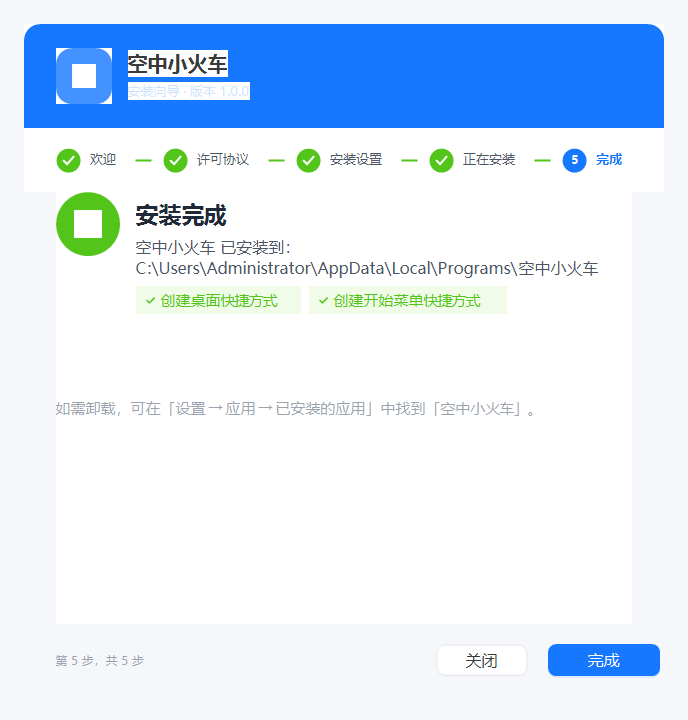
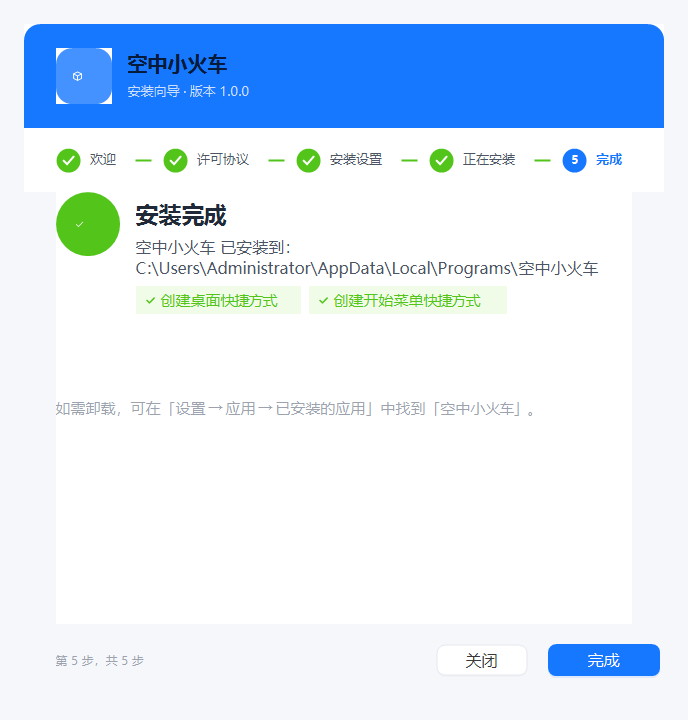
修圆角后遗症：面板里的 Label 失去背景 + 提示条被压成 3px
上一轮把 AntdUI.Panel 的 BackColor 删掉修好了圆角，但引出两个问题。

一、面板里的 Label 各画一块白底
   现象：品牌头的产品名和副标题后面各有一个白色方块，图标块也变成白色方块。
   原因：面板没有 BackColor 后，里面的 Label 失去可继承的背景，
        各自画了自己的 BackColor（白）。
   修法：WizardForm 构造时递归把树里所有 AntdUI.Label 的 BackColor 设为 Transparent。
        两个需求（面板要圆角 / 子控件要透明）这样就都满足了。

二、黄色提示条被压成 3px，文字看不见
   现象：提示条只剩一条黄线。
   原因：WelcomeView 的提示条行高 50，减去上间距 20 只剩 30，
        再减去 padding 上下各 10 只剩 10px —— 装不下 9F 的文字。
   修法：行高按设计稿改成 62（提示条本体 42 + 上间距 20），
        padding 改 (16,12,16,12)。

同时按设计稿把欢迎页的字号全改对
  页面标题 17F → 13.5F（18px）
  正文     12F → 9.75F（13px）
  信息卡标签 11F → 9F（12px）
  信息卡值   13F → 9.75F（13px）
  提示条     11F → 9F（12px）

实测一致度（欢迎页 87.5% → 88.3%）

验收：构建 0 警告、单元测试 182/182

Changed region(s): [[0.1831, 0.0611, 0.3663, 0.1528], [0.0916, 0.275, 0.1526, 0.3361], [0.0916, 0.0917, 0.1526, 0.1222]]

diff --git a/src/Installer.UI/Views/WelcomeView.Designer.cs b/src/Installer.UI/Views/WelcomeView.Designer.cs
@@ -71,7 +71,7 @@ namespace Installer.UI.Views
             this.rootLayout.RowStyles.Add(new System.Windows.Forms.RowStyle(System.Windows.Forms.SizeType.Absolute, 34F));
             this.rootLayout.RowStyles.Add(new System.Windows.Forms.RowStyle(System.Windows.Forms.SizeType.Absolute, 86F));
             this.rootLayout.RowStyles.Add(new System.Windows.Forms.RowStyle(System.Windows.Forms.SizeType.Absolute, 186F));
-            this.rootLayout.RowStyles.Add(new System.Windows.Forms.RowStyle(System.Windows.Forms.SizeType.Absolute, 50F));
+            this.rootLayout.RowStyles.Add(new System.Windows.Forms.RowStyle(System.Windows.Forms.SizeType.Absolute, 62F));
             this.rootLayout.RowStyles.Add(new System.Windows.Forms.RowStyle(System.Windows.Forms.SizeType.Percent, 100F));
             this.rootLayout.Size = new System.Drawing.Size(600, 400);
             this.rootLayout.TabIndex = 0;
@@ -80,7 +80,7 @@ namespace Installer.UI.Views
             //
             this.lblTitle.Anchor = System.Windows.Forms.AnchorStyles.Left;
             this.lblTitle.AutoSize = true;
-            this.lblTitle.Font = new System.Drawing.Font("微软雅黑", 17F, System.Drawing.FontStyle.Bold);
+            this.lblTitle.Font = new System.Drawing.Font("微软雅黑", 13.5F, System.Drawing.FontStyle.Bold);
             this.lblTitle.Location = new System.Drawing.Point(0, 0);
             this.lblTitle.Margin = new System.Windows.Forms.Padding(0);
             this.lblTitle.Name = "lblTitle";
@@ -91,7 +91,7 @@ namespace Installer.UI.Views
             // lblBody
             //
             this.lblBody.AutoSize = false;
-            this.lblBody.Font = new System.Drawing.Font("微软雅黑", 12F);
+            this.lblBody.Font = new System.Drawing.Font("微软雅黑", 9.75F);
             this.lblBody.Location = new System.Drawing.Point(0, 40);
             this.lblBody.Margin = new System.Windows.Forms.Padding(0, 8, 0, 0);
             this.lblBody.Name = "lblBody";
@@ -167,7 +167,7 @@ namespace Installer.UI.Views
             //
             this.lblDirCaption.Anchor = System.Windows.Forms.AnchorStyles.Left;
             this.lblDirCaption.AutoSize = true;
-            this.lblDirCaption.Font = new System.Drawing.Font("微软雅黑", 11F);
+            this.lblDirCaption.Font = new System.Drawing.Font("微软雅黑", 9F);
             this.lblDirCaption.ForeColor = System.Drawing.Color.FromArgb(((int)(((byte)(156)))), ((int)(((byte)(163)))), ((int)(((byte)(175)))));
             this.lblDirCaption.Location = new System.Drawing.Point(0, 0);
             this.lblDirCaption.Margin = new System.Windows.Forms.Padding(0);
@@ -180,7 +180,7 @@ namespace Installer.UI.Views
             //
             this.lblDirValue.Anchor = System.Windows.Forms.AnchorStyles.Left;
             this.lblDirValue.AutoSize = true;
-            this.lblDirValue.Font = new System.Drawing.Font("微软雅黑", 13F);
+            this.lblDirValue.Font = new System.Drawing.Font("微软雅黑", 9.75F);
             this.lblDirValue.Location = new System.Drawing.Point(0, 18);
             this.lblDirValue.Margin = new System.Windows.Forms.Padding(0);
             this.lblDirValue.Name = "lblDirValue";
@@ -222,7 +222,7 @@ namespace Installer.UI.Views
             //
             this.lblSpaceCaption.Anchor = System.Windows.Forms.AnchorStyles.Left;
             this.lblSpaceCaption.AutoSize = true;
-            this.lblSpaceCaption.Font = new System.Drawing.Font("微软雅黑", 11F);
+            this.lblSpaceCaption.Font = new System.Drawing.Font("微软雅黑", 9F);
             this.lblSpaceCaption.ForeColor = System.Drawing.Color.FromArgb(((int)(((byte)(156)))), ((int)(((byte)(163)))), ((int)(((byte)(175)))));
             this.lblSpaceCaption.Location = new System.Drawing.Point(0, 0);
             this.lblSpaceCaption.Margin = new System.Windows.Forms.Padding(0);
@@ -235,7 +235,7 @@ namespace Installer.UI.Views
             //
             this.lblSpaceValue.Anchor = System.Windows.Forms.AnchorStyles.Left;
             this.lblSpaceValue.AutoSize = true;
-            this.lblSpaceValue.Font = new System.Drawing.Font("微软雅黑", 13F);
+            this.lblSpaceValue.Font = new System.Drawing.Font("微软雅黑", 9.75F);
             this.lblSpaceValue.Location = new System.Drawing.Point(0, 18);
             this.lblSpaceValue.Margin = new System.Windows.Forms.Padding(0);
             this.lblSpaceValue.Name = "lblSpaceValue";
@@ -277,7 +277,7 @@ namespace Installer.UI.Views
             //
             this.lblVersionCaption.Anchor = System.Windows.Forms.AnchorStyles.Left;
             this.lblVersionCaption.AutoSize = true;
-            this.lblVersionCaption.Font = new System.Drawing.Font("微软雅黑", 11F);
+            this.lblVersionCaption.Font = new System.Drawing.Font("微软雅黑", 9F);
             this.lblVersionCaption.ForeColor = System.Drawing.Color.FromArgb(((int)(((byte)(156)))), ((int)(((byte)(163)))), ((int)(((byte)(175)))));
             this.lblVersionCaption.Location = new System.Drawing.Point(0, 0);
             this.lblVersionCaption.Margin = new System.Windows.Forms.Padding(0);
@@ -290,7 +290,7 @@ namespace Installer.UI.Views
             //
             this.lblVersionValue.Anchor = System.Windows.Forms.AnchorStyles.Left;
             this.lblVersionValue.AutoSize = true;
-            this.lblVersionValue.Font = new System.Drawing.Font("微软雅黑", 13F);
+            this.lblVersionValue.Font = new System.Drawing.Font("微软雅黑", 9.75F);
             this.lblVersionValue.Location = new System.Drawing.Point(0, 18);
             this.lblVersionValue.Margin = new System.Windows.Forms.Padding(0);
             this.lblVersionValue.Name = "lblVersionValue";
@@ -305,20 +305,20 @@ namespace Installer.UI.Views
             this.hintPanel.Location = new System.Drawing.Point(0, 322);
             this.hintPanel.Margin = new System.Windows.Forms.Padding(0, 20, 0, 0);
             this.hintPanel.Name = "hintPanel";
-            this.hintPanel.Padding = new System.Windows.Forms.Padding(14, 10, 14, 10);
+            this.hintPanel.Padding = new System.Windows.Forms.Padding(16, 12, 16, 12);
             this.hintPanel.Radius = 8;
-            this.hintPanel.Size = new System.Drawing.Size(600, 44);
+            this.hintPanel.Size = new System.Drawing.Size(576, 42);
             this.hintPanel.TabIndex = 3;
             //
             // lblHint
             //
             this.lblHint.AutoSize = false;
             this.lblHint.Dock = System.Windows.Forms.DockStyle.Fill;
-            this.lblHint.Font = new System.Drawing.Font("微软雅黑", 11F);
-            this.lblHint.Location = new System.Drawing.Point(14, 10);
+            this.lblHint.Font = new System.Drawing.Font("微软雅黑", 9F);
+            this.lblHint.Location = new System.Drawing.Point(16, 12);
             this.lblHint.Margin = new System.Windows.Forms.Padding(0);
             this.lblHint.Name = "lblHint";
-            this.lblHint.Size = new System.Drawing.Size(572, 24);
+            this.lblHint.Size = new System.Drawing.Size(544, 18);
             this.lblHint.TabIndex = 0;
             this.lblHint.Text = "";
             //
@@ -328,7 +328,7 @@ namespace Installer.UI.Views
             this.AutoScaleMode = System.Windows.Forms.AutoScaleMode.Font;
             this.BackColor = System.Drawing.Color.White;
             this.Controls.Add(this.rootLayout);
-            this.Font = new System.Drawing.Font("微软雅黑", 12F);
+            this.Font = new System.Drawing.Font("微软雅黑", 9.75F);
             this.Name = "WelcomeView";
             this.Size = new System.Drawing.Size(600, 400);
             this.rootLayout.ResumeLayout(false);

diff --git a/src/Installer.UI/Forms/WizardForm.cs b/src/Installer.UI/Forms/WizardForm.cs
@@ -69,6 +69,7 @@ namespace Installer.UI.Forms
 
             InitializeComponent();
             ApplyCardRegion();
+            MakeLabelsTransparent(this);
 
             ApplyAppearance();
             BuildViews();
@@ -98,6 +99,32 @@ namespace Installer.UI.Forms
         /// 而卡片里铺满了 cardLayout（TableLayoutPanel）和品牌区的 Panel，
         /// 它们的直角会把卡片的圆角盖掉。用 Region 裁剪整个卡片（含子控件）才有效。
         /// </summary>
+        /// <summary>
+        /// 把 AntdUI.Panel 内部的 Label 背景设为透明。
+        ///
+        /// 为什么需要：AntdUI.Panel 的圆角靠它自己的 Back 画出来，
+        /// 所以不能给面板设 WinForms 的 BackColor（会盖成直角）。
+        /// 但面板一旦没有 BackColor，里面的 Label 就失去可继承的背景，
+        /// 各自画一块白底 —— 表现就是「产品名后面有个白方块」。
+        /// 显式设成透明即可两全。
+        /// </summary>
+        private static void MakeLabelsTransparent(System.Windows.Forms.Control root)
+        {
+            foreach (System.Windows.Forms.Control c in root.Controls)
+            {
+                var label = c as AntdUI.Label;
+                if (label != null)
+                {
+                    label.BackColor = System.Drawing.Color.Transparent;
+                }
+
+                if (c.Controls.Count > 0)
+                {
+                    MakeLabelsTransparent(c);
+                }
+            }
+        }
+
         private void ApplyCardRegion()
         {
             var r = Common.WizardTheme.CardRadius;
@@ -778,6 +805,7 @@ namespace Installer.UI.Forms
         {
             base.OnResize(e);
             ApplyCardRegion();
+            MakeLabelsTransparent(this);
         }
 
         protected override void OnFormClosing(FormClosingEventArgs e)
